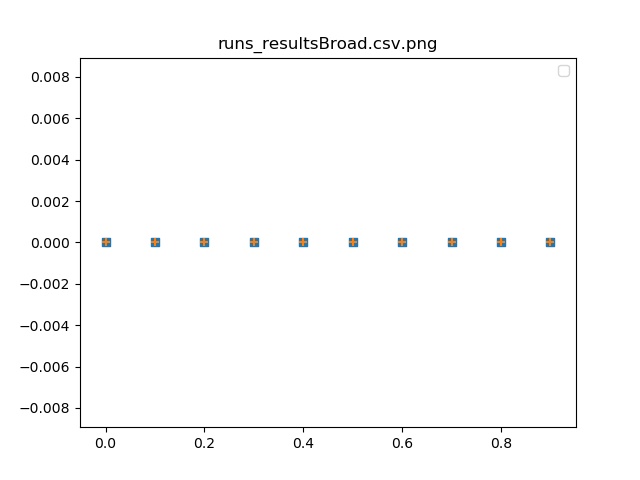
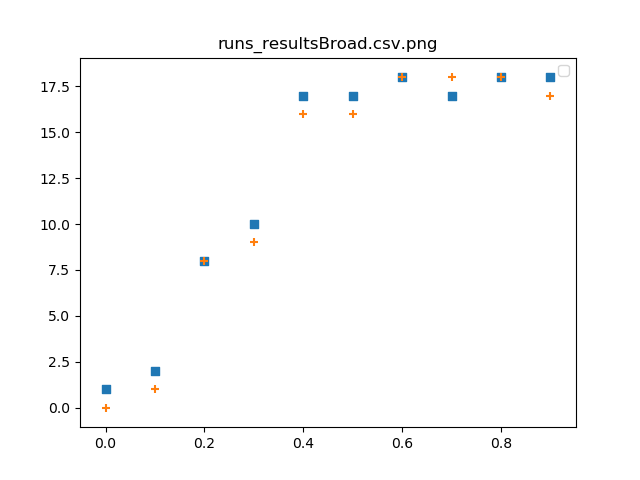
Added a few changes with runner

diff --git a/runnertest.py b/runnertest.py
@@ -1,0 +1,68 @@
+import subprocess
+#subprocess.run(["ls", "-l","-a"])
+import math 
+import numpy as np
+import Plotter.plotter as bplt
+import csv
+N=1000000
+TIME_STEPS=20
+p= 0.75
+r= 0.2
+MAX_RUNS = 10
+SAMPLES_PER_r =2
+out_data_path = "runs_resultsBroad.csv"
+
+rs = []
+final_active_states_counts  = []
+r_upper = 1 
+r_lower =0
+dr =  0.1
+
+def truncate(f, n):
+    '''Truncates/pads a float f to n decimal places without rounding'''
+    s = '{}'.format(f)
+    if 'e' in s or 'E' in s:
+        return '{0:.{1}f}'.format(f, n)
+    i, p, d = s.partition('.')
+    return '.'.join([i, (d+'0'*n)[:n]])
+
+
+def run_experiment(N,TIME_STEPS,p,r):
+
+    exp = subprocess.run(["./DirectedPercolation",str(N),str(TIME_STEPS),str(p),str(r)],stdout=subprocess.PIPE)
+
+
+
+    ExperimentName = exp.stdout.decode('utf-8')[:-1]
+    print("PYName:")
+    print(ExperimentName)
+    print(truncate(r,5))
+    
+    f =open(ExperimentName,"r")#Open produced experiment
+    f.seek(N*(TIME_STEPS-1))#Seek to last line
+    
+    count = (f.readline().count("1"))#Count number of active states remaining
+    f.close()
+    subprocess.run(["rm",ExperimentName])
+    print(count)
+    return count
+
+
+
+with open(out_data_path,"w") as fm:
+    wt = csv.writer(fm)
+
+    r=0
+    for s in range(0,MAX_RUNS):
+        rs.append(r)
+        final_active_states_counts.append([])
+        for n in range(0,SAMPLES_PER_r): 
+            final_active_states_counts[-1].append(run_experiment(N,TIME_STEPS,p,r))
+        r = r +1/MAX_RUNS 
+    
+        wt.writerow((rs[-1],final_active_states_counts[-1]))
+print(r)
+print(len(rs))
+print(len(final_active_states_counts))
+print(len(final_active_states_counts[-1]))
+bplt.Plotting.scatter(rs,np.array(final_active_states_counts).T,title=out_data_path+".png")
